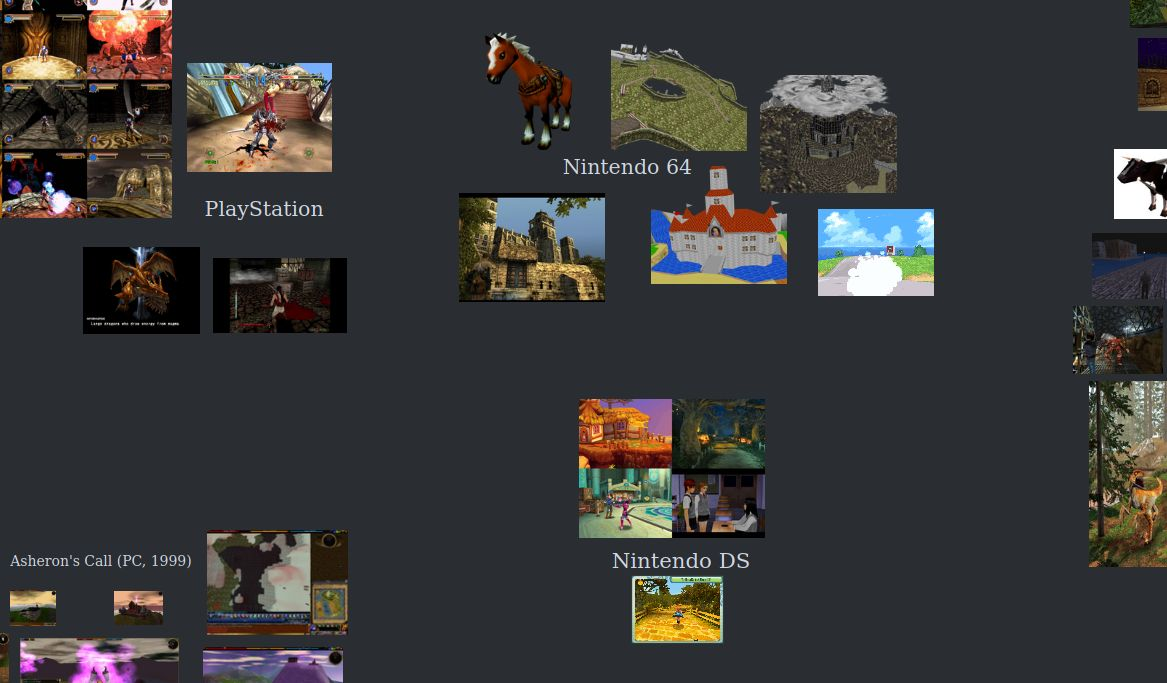
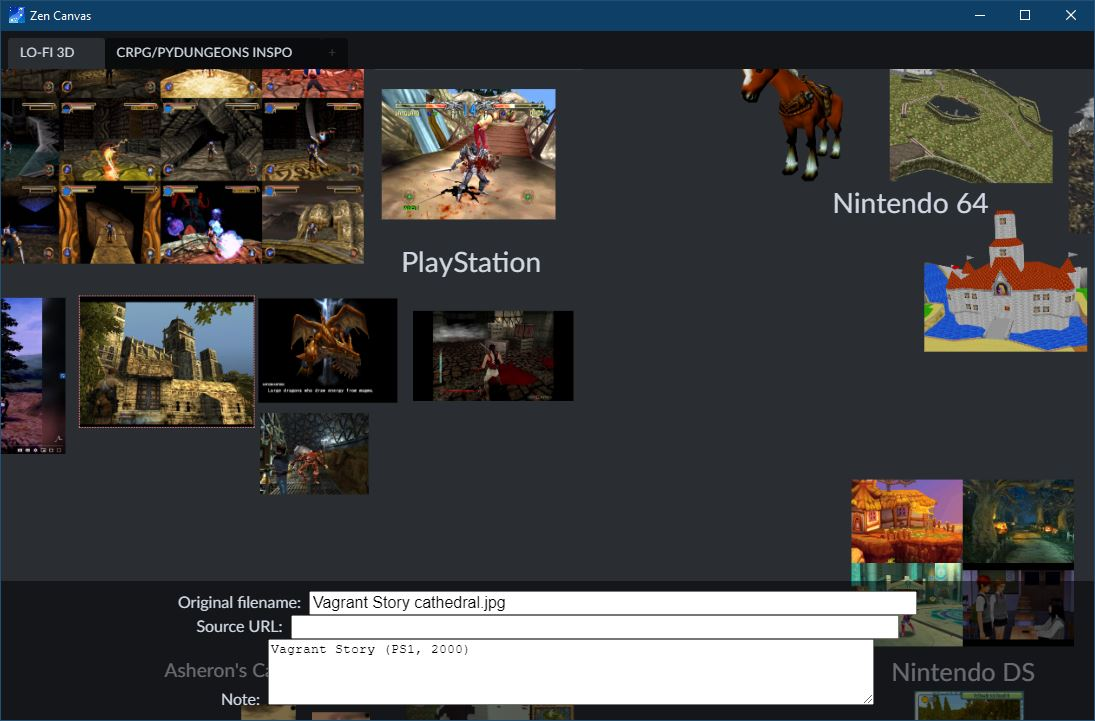
We Electron now!

diff --git a/electron-main.js b/electron-main.js
@@ -1,0 +1,191 @@
+"use strict";
+
+const { app, BrowserWindow } = require("electron");
+const http = require('http');
+const path = require("path");
+
+// Keep a global reference of the mainWindowdow object, if you don't, the mainWindowdow will
+// be closed automatically when the JavaScript object is garbage collected.
+let mainWindow = null;
+let subpy = null;
+
+const PY_DIST_FOLDER = "dist-python"; // python distributable folder
+const PY_SRC_FOLDER = "."; // path to the python source
+const PY_MODULE = "zen-canvas-backend"; // the name of the main module (without extension)
+
+const isRunningInBundle = () => {
+  return require("fs").existsSync(path.join(__dirname, PY_DIST_FOLDER));
+};
+
+const getPythonScriptPath = () => {
+  if (!isRunningInBundle()) {
+    return path.join(__dirname, PY_SRC_FOLDER, PY_MODULE + ".py");
+  }
+  console.log("Zen Canvas running in a bundle");
+
+  if (process.platform === "win32") {
+    // On Windows: run ./dist_python/zen-canvas-backend/zen-canvas-backend.exe
+    return path.join(
+      __dirname,
+      PY_DIST_FOLDER,
+      PY_MODULE,
+      PY_MODULE + ".exe"
+    );
+  }
+
+  // On other OS: run ./dist_python/zen-canvas-backend/zen-canvas-backend
+  return path.join(__dirname, PY_DIST_FOLDER, PY_MODULE, PY_MODULE);
+};
+
+const startPythonSubprocess = () => {
+  let script = getPythonScriptPath();
+  console.log("Executing", script);
+  if (isRunningInBundle()) {
+    subpy = require("child_process").execFile(script, []);
+  } else {
+    subpy = require("child_process").spawn("python", [script], {stdio: "inherit"});
+  }
+  console.log("Spawned PID", subpy.pid);
+};
+
+const killPythonSubprocesses = main_pid => {
+  const python_script_name = path.basename(getPythonScriptPath());
+  let cleanup_completed = false;
+  const psTree = require("ps-tree");
+  psTree(main_pid, function(err, children) {
+    let python_pids = children
+      .filter(function(el) {
+        // return el.COMMAND === python_script_name;
+
+        // Spawned command in bundle will be run_app or run_app.exe, so we use this heuristic
+        return el.COMMAND.indexOf(PY_MODULE) === 0;
+      })
+      .map(function(p) {
+        console.log("killPythonSubprocesses", p);
+        return p.PID;
+      });
+    // kill all the spawned python processes
+    python_pids.forEach(function(pid) {
+      process.kill(pid);
+    });
+    subpy = null;
+    cleanup_completed = true;
+  });
+  return new Promise(function(resolve, reject) {
+    (function waitForSubProcessCleanup() {
+      if (cleanup_completed) return resolve();
+      setTimeout(waitForSubProcessCleanup, 30);
+    })();
+  });
+
+  // Not so easy! PyInstaller bundle spawns children from the top-level process, but doesn't propagate signals to them
+  // return new Promise(function(resolve, reject) {
+  //   subpy.kill();
+  //   return resolve();
+  // });
+};
+
+const createMainWindow = () => {
+  // Create the browser mainWindow
+  mainWindow = new BrowserWindow({
+    width: 1280,
+    height: 800,
+    // transparent: true, // transparent header bar
+    icon: __dirname + "/icon.png",
+    // fullscreen: true,
+    // opacity:0.8,
+    // darkTheme: true,
+    // frame: false,
+    resizeable: true
+  });
+
+  // Now wait for the backend server start up. Continuously poll the HTTP endpoint until we receive a page.
+  // TODO: At some point, we should time out and display an error message
+  // TODO: If the child process dies, we should give up and display an error message
+
+  const REQUEST_TIMEOUT_MS = 100;
+  const RETRY_INTERVAL_MS = 50;
+
+  const pingServerAndNavigateIfSuccessful = (url) => {
+    http.get(url, {timeout: REQUEST_TIMEOUT_MS}, (res) => {
+      // const { statusCode } = res;
+      // const contentType = res.headers['content-type'];
+      //
+      // let error;
+      // Any 2xx status code signals a successful response but
+      // here we're only checking for 200.
+      // if (statusCode !== 200) {
+      //   error = new Error('Request Failed.\n' + `Status Code: ${statusCode}`);
+      // }
+      // if (error) {
+      //   console.error(error.message);
+      //   // Consume response data to free up memory
+      //   res.resume();
+      //
+      //   setTimeout(() => pingServerAndNavigateIfSuccessful(url), 100);
+      //   return;
+      // }
+
+      // Load the index page
+      mainWindow.loadURL(url);
+    }).on('error', (e) => {
+      console.error(`Got error: ${e.message}`);
+
+      // Retry shortly
+      setTimeout(() => pingServerAndNavigateIfSuccessful(url), RETRY_INTERVAL_MS);
+    });
+  };
+
+  const url = "http://localhost:5000/";
+  pingServerAndNavigateIfSuccessful(url);
+
+  // Open the DevTools.
+  //mainWindow.webContents.openDevTools();
+
+  // Emitted when the mainWindow is closed.
+  mainWindow.on("closed", function() {
+    // Dereference the mainWindow object
+    mainWindow = null;
+  });
+};
+
+// This method will be called when Electron has finished
+// initialization and is ready to create browser windows.
+// Some APIs can only be used after this event occurs.
+app.on("ready", function() {
+  // start the backend server
+  startPythonSubprocess();
+  createMainWindow();
+});
+
+// disable menu
+app.on("browser-window-created", function(e, window) {
+  window.setMenu(null);
+});
+
+// Quit when all windows are closed.
+app.on("window-all-closed", () => {
+  // On macOS it is common for applications and their menu bar
+  // to stay active until the user quits explicitly with Cmd + Q
+  if (process.platform !== "darwin") {
+    let main_process_pid = process.pid;
+    killPythonSubprocesses(main_process_pid).then(() => {
+      app.quit();
+    });
+  }
+});
+
+app.on("activate", () => {
+  // On macOS it's common to re-create a window in the app when the
+  // dock icon is clicked and there are no other windows open.
+  if (subpy == null) {
+    startPythonSubprocess();
+  }
+  if (win === null) {
+    createWindow();
+  }
+});
+
+app.on("quit", function() {
+  // do some additional cleanup
+});

diff --git a/app/templates/main/index.html b/app/templates/main/index.html
@@ -1,6 +1,7 @@
 <!doctype html>
 <html>
 <head>
+    <title>Zen Canvas</title>
     <style>
 html, body {
     width: 100%;

diff --git a/zen-canvas-backend.py b/zen-canvas-backend.py
@@ -1,0 +1,4 @@
+from app import create_app
+
+app = create_app("development")
+app.run(port=5000)
